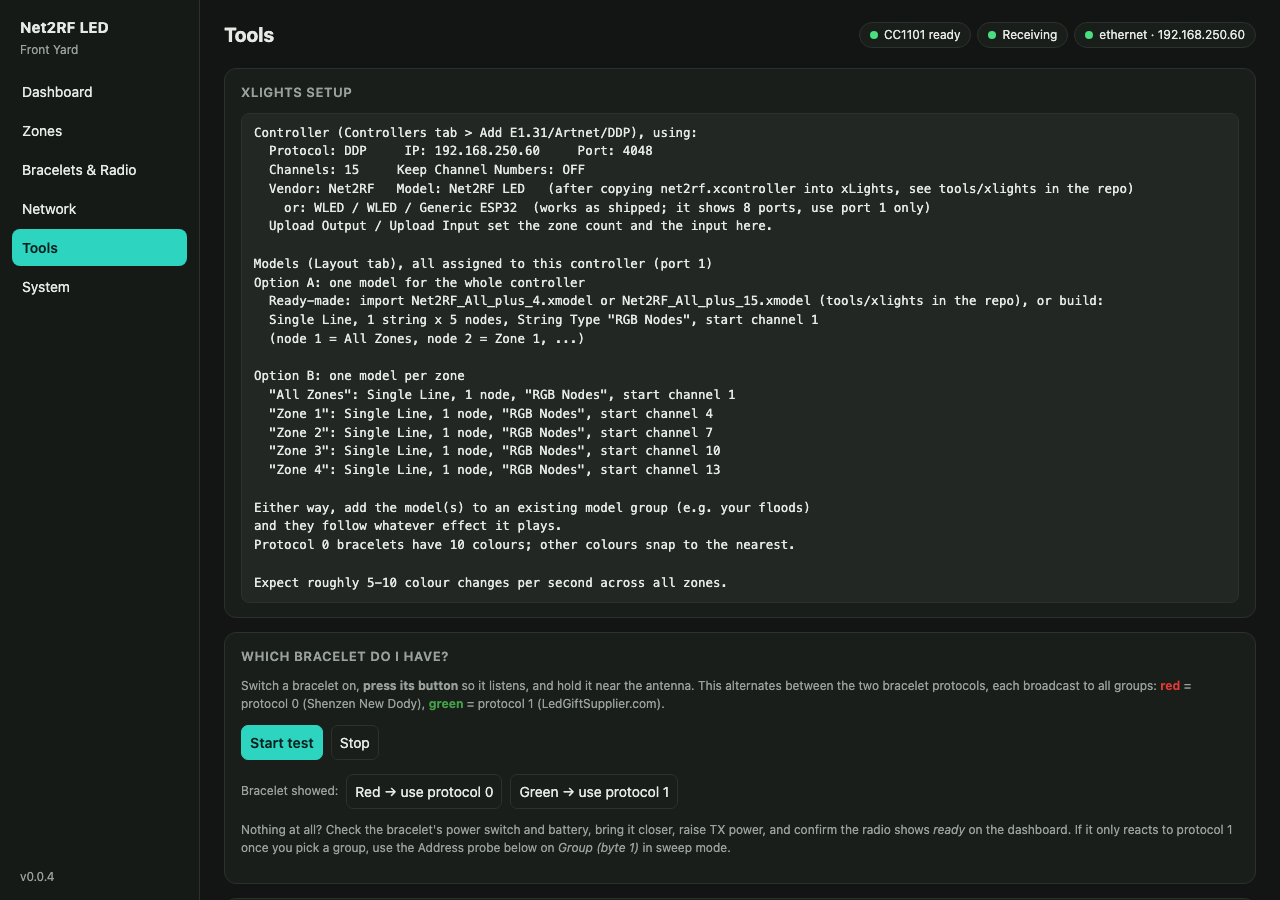
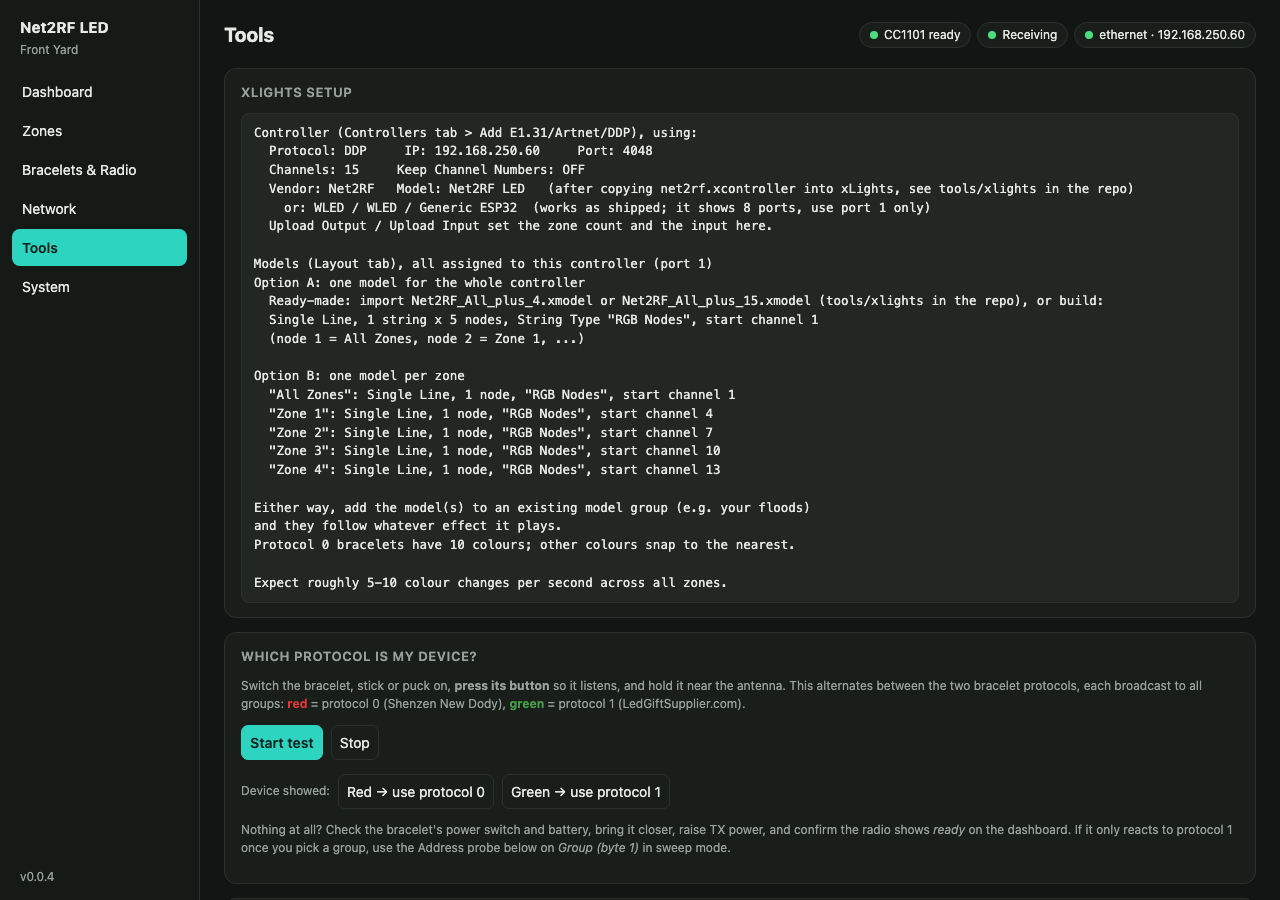
Fix "could not reach GitHub" on install; rename the protocol test
- Installing a release while the controller's own release check was still
  running opened two secure connections at once and failed with
  ESP_ERR_HTTP_CONNECT. The web UI triggers exactly that: "Check for updates"
  starts the check, "Install" follows. The install now waits for a running
  check, and retries a connection that could not be made (3 attempts).
- Tools: "Which bracelet do I have?" is now "Which protocol is my device?"
  (it applies to sticks and pucks too).

Changed region(s): [[0.1875, 0.7156, 0.9375, 0.8089], [0.1875, 0.8711, 0.5312, 0.9022]]

diff --git a/web/index.html b/web/index.html
@@ -256,12 +256,12 @@ details.adv>summary{cursor:pointer;font-weight:600;color:var(--dim)}details.adv[
   <!-- TOOLS -->
   <section data-page="tools" class="hide">
     <div class="card"><h2>xLights setup</h2><pre id="t_xl"></pre></div>
-    <div class="card"><h2>Which bracelet do I have?</h2>
-      <p class="dim small" style="margin-top:0">Switch a bracelet on, <b>press its button</b> so it listens, and hold it near the antenna. This alternates between the two bracelet protocols, each broadcast to all groups:
+    <div class="card"><h2>Which protocol is my device?</h2>
+      <p class="dim small" style="margin-top:0">Switch the bracelet, stick or puck on, <b>press its button</b> so it listens, and hold it near the antenna. This alternates between the two bracelet protocols, each broadcast to all groups:
         <b style="color:#e53935">red</b> = protocol 0 (Shenzen New Dody), <b style="color:#43a047">green</b> = protocol 1 (LedGiftSupplier.com).</p>
       <div class="actions" style="margin-top:0"><button class="primary" id="id_start">Start test</button><button id="id_stop">Stop</button>
         <span class="small" id="id_now"></span></div>
-      <div class="actions"><span class="small dim">Bracelet showed:</span><button id="id_p0">Red → use protocol 0</button><button id="id_p1">Green → use protocol 1</button></div>
+      <div class="actions"><span class="small dim">Device showed:</span><button id="id_p0">Red → use protocol 0</button><button id="id_p1">Green → use protocol 1</button></div>
       <p class="dim small">Nothing at all? Check the bracelet's power switch and battery, bring it closer, raise TX power, and confirm the radio shows <i>ready</i> on the dashboard.
         If it only reacts to protocol 1 once you pick a group, use the Address probe below on <i>Group (byte 1)</i> in sweep mode.</p>
     </div>

diff --git a/src/updater.cpp b/src/updater.cpp
@@ -21,6 +21,7 @@ namespace {
 enum class State : uint8_t { IDLE, DOWNLOADING, DONE, FAILED };
 
 volatile State s_state = State::IDLE;
+volatile bool s_checking = false;  // the release check (below) has a connection open
 volatile uint8_t s_progress = 0;  // percent
 char s_url[256];
 char s_tag[41];
@@ -57,7 +58,10 @@ void fail(const String &msg) {
     s_state = State::FAILED;
 }
 
-void download() {
+// Returns an empty string on success, otherwise why it failed. `retry` is set when nothing was written yet and
+// trying again is worthwhile (the connection could not be made).
+String download(bool &retry) {
+    retry = false;
     esp_http_client_config_t cfg = {};
     cfg.url = s_url;
     cfg.crt_bundle_attach = esp_crt_bundle_attach;  // verify GitHub's certificate against the built-in CA bundle
@@ -68,7 +72,7 @@ void download() {
     cfg.keep_alive_enable = false;
     esp_http_client_handle_t http = esp_http_client_init(&cfg);
     if (!http)
-        return fail("out of memory");
+        return "out of memory";
 
     // GitHub answers with a redirect to its file servers: follow it (a few hops at most).
     int code = 0;
@@ -86,8 +90,10 @@ void download() {
         esp_http_client_close(http);
     }
     String err;
-    if (e != ESP_OK || len < 0)
+    if (e != ESP_OK || len < 0) {
         err = String("could not reach GitHub (") + esp_err_to_name(e != ESP_OK ? e : ESP_FAIL) + ")";
+        retry = true;
+    }
     else if (code == 404)
         err = "release file not found";
     else if (code != 200)
@@ -121,17 +127,34 @@ void download() {
     }
     esp_http_client_close(http);
     esp_http_client_cleanup(http);
-    if (!err.isEmpty())
-        return fail(err);
-    log_i("Update %s written (%u bytes)", s_tag, (unsigned) len);
-    s_progress = 100;
-    s_state = State::DONE;
+    if (err.isEmpty())
+        log_i("Update %s written (%u bytes)", s_tag, (unsigned) len);
+    return err;
 }
 
 void task(void *) {
     g_engine.set_suspended(true);  // no RF while flashing
+    // One secure connection at a time: there isn't the memory for two, and the web UI's "Check for updates"
+    // starts a release check right before "Install" can be pressed.
+    for (int i = 0; i < 200 && s_checking; i++)
+        delay(100);
     log_i("Updating from %s", s_url);
-    download();
+    String err;
+    for (int attempt = 1; attempt <= 3; attempt++) {
+        bool retry;
+        err = download(retry);
+        if (err.isEmpty() || !retry)
+            break;
+        log_w("Update attempt %d: %s", attempt, err.c_str());
+        if (attempt < 3)
+            delay(2000);
+    }
+    if (err.isEmpty()) {
+        s_progress = 100;
+        s_state = State::DONE;
+    } else {
+        fail(err);
+    }
     vTaskDelete(nullptr);
 }
 // ---- looking for a newer release -----------------------------------------------------------------
@@ -140,7 +163,6 @@ const uint32_t FIRST_CHECK_MS = 30000;        // after boot, once the network is
 const uint32_t RETRY_CHECK_MS = 60000;        // after a check that could not reach GitHub; doubles each time ...
 const uint32_t RETRY_CHECK_MAX_MS = 15 * 60000;  // ... up to this
 
-volatile bool s_checking = false;
 volatile bool s_check_now = false;
 volatile bool s_check_failed = false;
 bool s_checked = false;

diff --git a/docs/DEVICES.md b/docs/DEVICES.md
@@ -20,7 +20,7 @@ that isn't listed, please [report it](#reporting-a-device): every report widens 
 | PCB marking | `SD-B15ST1K1` |
 | Radio | 433 MHz receiver; 13.52127 MHz crystal (`X1`); loop antenna around the board edge; main chips unmarked |
 | Controls | push button |
-| Protocol | **0, Shenzen New Dody** (lights red in *Tools → Which bracelet do I have?*) |
+| Protocol | **0, Shenzen New Dody** (lights red in *Tools → Which protocol is my device?*) |
 | Colours | The protocol's 10 fixed colours |
 | Effects | **Fade in** (`05 AA`, back to the last colour) and **fade out** (`06 AA`, to black) work. The app's third effect packet does nothing. |
 | Address | Two bracelets tested: one on **group 3** (`0008000F`), one on **group 2** (`0004000F`). Both answer the all-groups address `00FFFF0F`. Other bracelets may be on different groups. |
@@ -44,7 +44,7 @@ vendor's "DMX to RF transmitter" kits use.
 ### ❔ Other products
 
 RF pucks, wands, hats and the like (for example Wally's Lights' "DMX to RF" range, organised in zones 1–4) may use
-one of these two protocols or something else. Try *Tools → Which bracelet do I have?* and report the result.
+one of these two protocols or something else. Try *Tools → Which protocol is my device?* and report the result.
 
 ## Controller hardware
 
@@ -83,7 +83,7 @@ Open an issue with:
 
 1. **Photos** of the device, outside and the PCB (markings, crystal, chips), like the one above.
 2. **Where it came from:** event, vendor, listing.
-3. **Protocol:** what *Tools → Which bracelet do I have?* shows (red = 0, green = 1, nothing).
+3. **Protocol:** what *Tools → Which protocol is my device?* shows (red = 0, green = 1, nothing).
 4. **Address:** what *Tools → Address probe* finds (see [SETUP.md](SETUP.md#3-decide-how-the-bracelets-fit-into-the-show)).
 5. **Behaviour:** does it need a button press to listen, what does it do when idle, and how long does it last on
    its batteries?

diff --git a/docs/USAGE.md b/docs/USAGE.md
@@ -49,7 +49,7 @@ For a show, give the controller a **static IP** or a DHCP reservation, so xLight
 | **Zones** | Add, name, enable and address zones; choose whether All Zones is a base layer under the others; send a colour, off, a fade in or a fade out to one zone; **Zone walk** lights one zone at a time so you can see which bracelets belong where |
 | **Bracelets & Radio** | Controller name, bracelet protocol, input mode (pixel / DMX / vendor), colour order and start channel; radio module, TX power, frequencies, frames per update, refresh, TX jitter, listen before transmit; DDP / E1.31 input and the input timeout |
 | **Network** | Current connection and the settings above |
-| **Tools** | **xLights setup** (exact controller and model settings for the current zones); **Which bracelet do I have?**; **Send raw packet**; **Address probe** (find which group a bracelet is in) |
+| **Tools** | **xLights setup** (exact controller and model settings for the current zones); **Which protocol is my device?**; **Send raw packet**; **Address probe** (find which group a bracelet is in) |
 | **System** | Firmware info (version, free memory, free flash) and **Update firmware** (from GitHub releases or a file); an **Advanced** section with the flash partition breakdown; OLED display type and an I²C scan; **admin password**; settings **export / import**; reboot and factory reset |
 
 The pill row at the top of every page shows the radio, input and network state at a glance.

diff --git a/docs/SETUP.md b/docs/SETUP.md
@@ -29,7 +29,7 @@ other controllers, and optionally an **admin password** under **System**.
 
 1. Switch a bracelet on **and press its button**. Many bracelets ignore the radio until they're woken this
    way. Hold it a few metres from the antenna.
-2. **Tools → Which bracelet do I have? → Start test.** The controller alternates:
+2. **Tools → Which protocol is my device? → Start test.** The controller alternates:
    - **red** = protocol 0 (Shenzen New Dody)
    - **green** = protocol 1 (LedGiftSupplier.com)
 3. Click the matching **use protocol** button.
